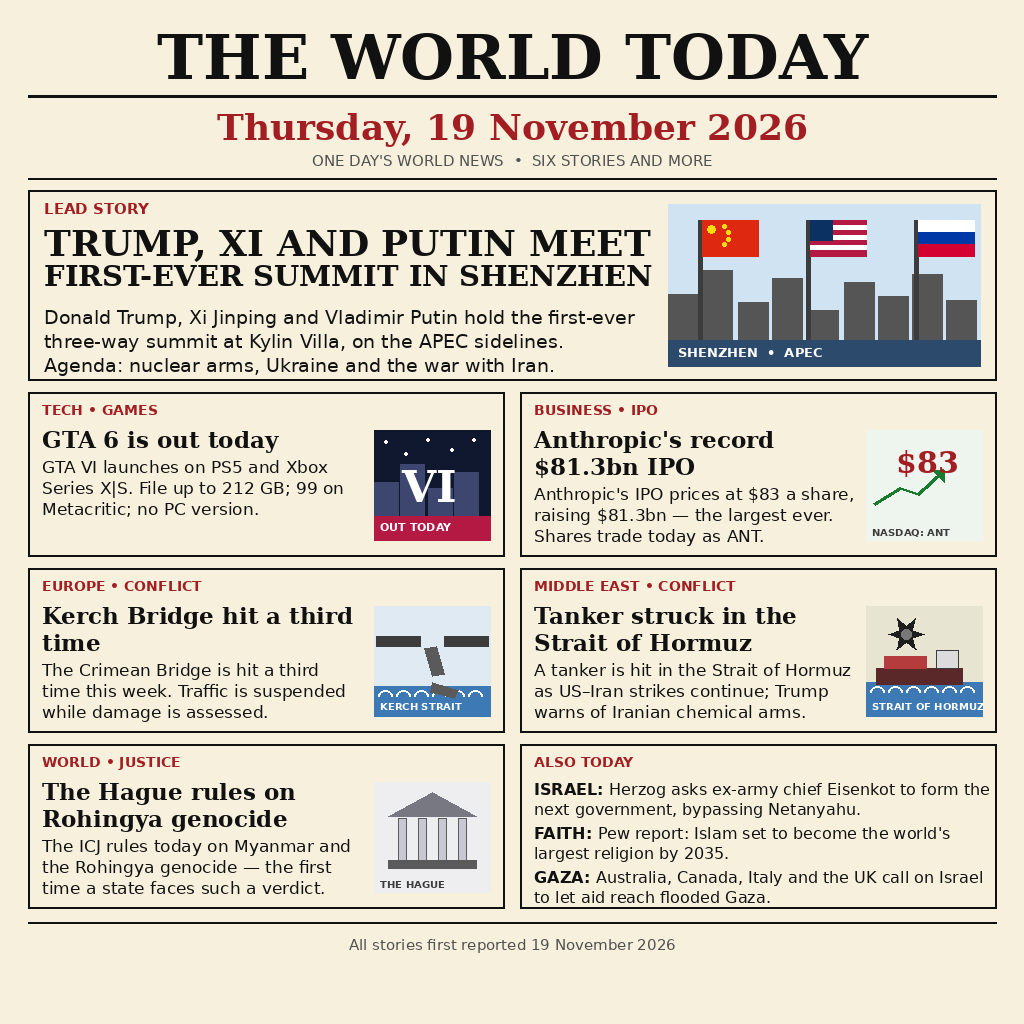
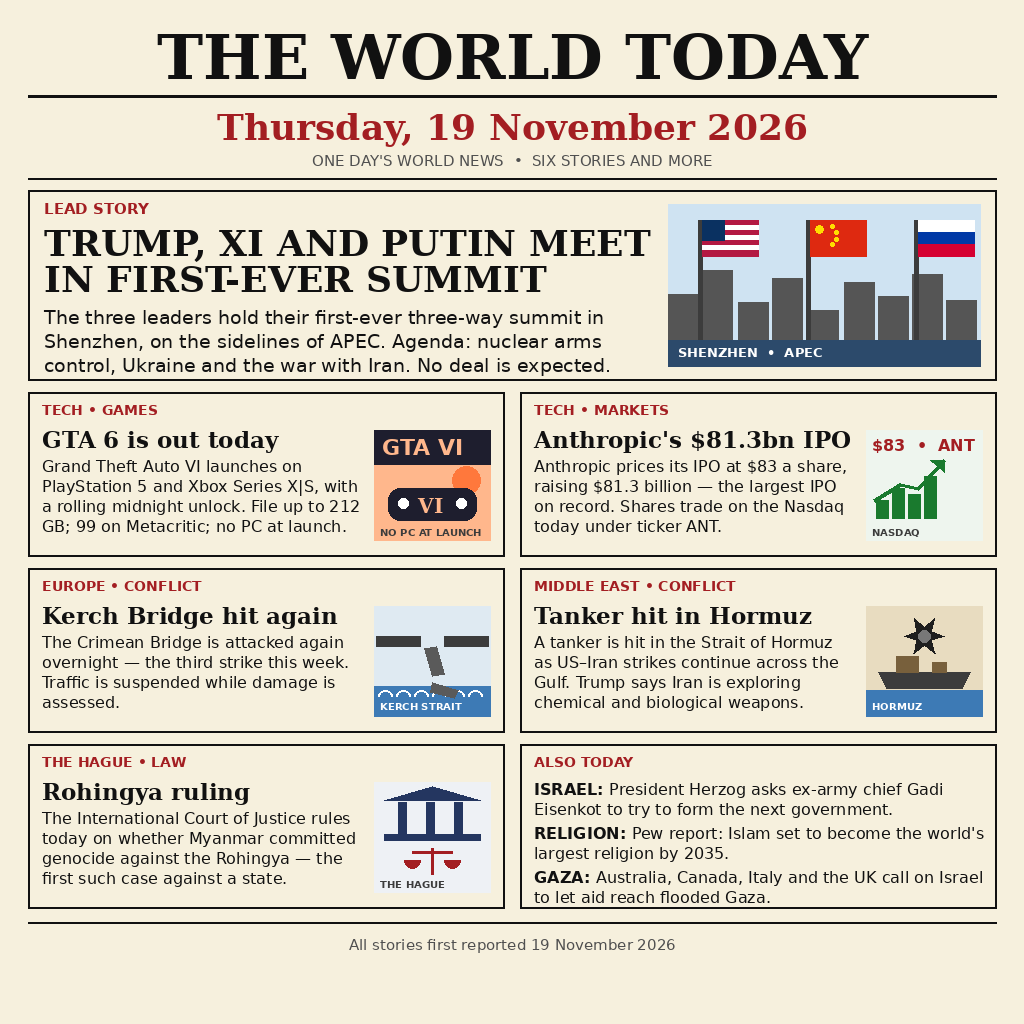
news-image-20261119: THE WORLD TODAY front page for Thursday 19 November 2026

diff --git a/render.py b/render.py
@@ -17,6 +17,7 @@ PAPER = (246, 240, 221)
 INK = (17, 17, 17)
 RED = (163, 30, 34)
 RULE = (17, 17, 17)
+GREY = (80, 80, 80)
 
 SERIF_B = "/usr/share/fonts/truetype/dejavu/DejaVuSerif-Bold.ttf"
 SERIF = "/usr/share/fonts/truetype/dejavu/DejaVuSerif.ttf"
@@ -52,6 +53,18 @@ def text_block(draw, x, y, text, fnt, max_w, leading, color=INK):
     return y
 
 
+def fit_font(path, text, start, max_w):
+    """Largest size at or below start whose text fits max_w."""
+    size = start
+    probe = ImageDraw.Draw(Image.new("RGB", (8, 8)))
+    while size > 12:
+        fnt = font(path, size)
+        if probe.textlength(text, font=fnt) <= max_w:
+            return fnt
+        size -= 1
+    return font(path, 12)
+
+
 def story_box(draw, x, y, w, h, kicker, headline, body, art):
     """One bordered story box with a small drawn illustration at right."""
     draw.rectangle([x, y, x + w, y + h], outline=RULE, width=2)
@@ -65,16 +78,8 @@ def story_box(draw, x, y, w, h, kicker, headline, body, art):
     ty = text_block(draw, tx, ty, headline, font(SERIF_B, 23),
                     text_w, 27)
     ty += 4
-    text_block(draw, tx, ty, body, font(SANS, 17), text_w, 21)
+    text_block(draw, tx, ty, body, font(SANS, 16), text_w, 20)
     art(draw, x + w - pad - art_w, y + 38, art_w, 110)
-
-
-def flag_china(draw, x, y, w, h):
-    draw.rectangle([x, y, x + w, y + h], fill=(222, 41, 16))
-    draw.ellipse([x + 5, y + 5, x + 13, y + 13], fill=(255, 222, 0))
-    for dx, dy in ((20, 4), (24, 10), (24, 17), (20, 22)):
-        draw.ellipse([x + dx, y + dy, x + dx + 4, y + dy + 4],
-                     fill=(255, 222, 0))
 
 
 def flag_usa(draw, x, y, w, h):
@@ -86,6 +91,14 @@ def flag_usa(draw, x, y, w, h):
                    fill=(10, 49, 97))
 
 
+def flag_china(draw, x, y, w, h):
+    draw.rectangle([x, y, x + w, y + h], fill=(222, 41, 16))
+    draw.ellipse([x + 5, y + 5, x + 13, y + 13], fill=(255, 222, 0))
+    for dx, dy in ((20, 4), (24, 10), (24, 17), (20, 22)):
+        draw.ellipse([x + dx, y + dy, x + dx + 4, y + dy + 4],
+                     fill=(255, 222, 0))
+
+
 def flag_russia(draw, x, y, w, h):
     for i, col in enumerate(((255, 255, 255), (0, 57, 166),
                              (213, 0, 50))):
@@ -94,17 +107,15 @@ def flag_russia(draw, x, y, w, h):
 
 
 def art_lead(draw, x, y, w, h):
-    """Shenzhen skyline with the flags of China, the US and Russia."""
+    """Shenzhen skyline with the flags of the US, China and Russia."""
     draw.rectangle([x, y, x + w, y + h], fill=(207, 227, 242))
-    # Skyline.
     base = y + h - 26
     skyline = [(0, 46), (34, 70), (70, 38), (104, 62), (140, 30),
                (176, 58), (210, 44), (244, 66), (278, 40)]
     for bx, bh in skyline:
         draw.rectangle([x + bx, base - bh, x + bx + 30, base],
                        fill=(85, 85, 85))
-    # Three flag poles.
-    for i, fn in enumerate((flag_china, flag_usa, flag_russia)):
+    for i, fn in enumerate((flag_usa, flag_china, flag_russia)):
         px = x + 30 + i * 108
         draw.rectangle([px, y + 16, px + 4, base], fill=(60, 60, 60))
         fn(draw, px + 4, y + 16, 56, 36)
@@ -113,61 +124,51 @@ def art_lead(draw, x, y, w, h):
               font=font(SANS_B, 13), fill=(255, 255, 255))
 
 
-def fit_font(path, text, start, max_w):
-    """Largest size at or below start whose text fits max_w."""
-    size = start
-    while size > 12:
-        fnt = font(path, size)
-        if ImageDraw.Draw(Image.new("RGB", (8, 8))).textlength(
-                text, font=fnt) <= max_w:
-            return fnt
-        size -= 1
-    return font(path, 12)
-
-
 def art_gta(draw, x, y, w, h):
-    """Night city skyline with a big VI for the GTA 6 launch."""
-    draw.rectangle([x, y, x + w, y + h], fill=(16, 24, 48))
-    # Stars.
-    for sx, sy in ((10, 10), (30, 22), (52, 8), (76, 18), (98, 8)):
-        draw.ellipse([x + sx, y + sy, x + sx + 3, y + sy + 3],
-                     fill=(255, 255, 255))
-    # Skyline silhouette.
-    base = y + h - 24
-    for bx, bh in ((0, 34), (26, 52), (54, 28), (80, 44)):
-        draw.rectangle([x + bx, base - bh, x + bx + 24, base],
-                       fill=(60, 70, 110))
-    # Big VI.
-    draw.text((x + 28, y + 30), "VI", font=font(SERIF_B, 44),
-              fill=(255, 255, 255))
-    draw.rectangle([x, y + h - 24, x + w, y + h], fill=(179, 25, 66))
-    draw.text((x + 6, y + h - 20), "OUT TODAY",
-              font=font(SANS_B, 11), fill=(255, 255, 255))
-
-
-def art_anthropic(draw, x, y, w, h):
-    """Rising chart and $83 for the Anthropic IPO."""
-    draw.rectangle([x, y, x + w, y + h], fill=(238, 245, 238))
-    # Rising chart arrow.
-    draw.line([x + 8, y + 74, x + 34, y + 58, x + 52, y + 64, x + 78,
-               y + 40], fill=(26, 122, 46), width=3)
-    draw.polygon([(x + 78, y + 40), (x + 66, y + 40), (x + 78, y + 52)],
-                 fill=(26, 122, 46))
-    draw.text((x + 30, y + 14), "$83", font=font(SERIF_B, 30),
-              fill=(163, 30, 34))
-    draw.text((x + 6, y + h - 14), "NASDAQ: ANT",
+    """A game controller under a big VI, sunset sky."""
+    draw.rectangle([x, y, x + w, y + h], fill=(255, 183, 140))
+    draw.rectangle([x, y, x + w, y + 34], fill=(30, 30, 46))
+    draw.text((x + 8, y + 4), "GTA VI", font=font(SANS_B, 22),
+              fill=(255, 183, 140))
+    # Sun.
+    draw.ellipse([x + 78, y + 36, x + 106, y + 64], fill=(255, 120, 60))
+    # Controller body.
+    draw.rounded_rectangle([x + 14, y + 58, x + 102, y + 90], radius=12,
+                           fill=(30, 30, 46))
+    draw.ellipse([x + 24, y + 68, x + 34, y + 78], fill=(255, 255, 255))
+    draw.ellipse([x + 82, y + 68, x + 92, y + 78], fill=(255, 255, 255))
+    draw.text((x + 44, y + 64), "VI", font=font(SERIF_B, 20),
+              fill=(255, 183, 140))
+    draw.text((x + 6, y + h - 14), "NO PC AT LAUNCH",
               font=font(SANS_B, 10), fill=(60, 60, 60))
+
+
+def art_ipo(draw, x, y, w, h):
+    """A rising chart over a share-price ticker tape."""
+    draw.rectangle([x, y, x + w, y + h], fill=(238, 245, 238))
+    # Rising arrow.
+    draw.line([x + 8, y + 70, x + 34, y + 54, x + 52, y + 58, x + 78, y + 30],
+              fill=(26, 122, 46), width=4)
+    draw.polygon([(x + 78, y + 30), (x + 64, y + 30), (x + 78, y + 42)],
+                 fill=(26, 122, 46))
+    # Bars.
+    for i, bh in enumerate((18, 30, 24, 42)):
+        draw.rectangle([x + 10 + i * 16, y + 88 - bh,
+                        x + 22 + i * 16, y + 88], fill=(26, 122, 46))
+    draw.text((x + 6, y + 6), "$83  •  ANT", font=font(SANS_B, 16),
+              fill=(163, 30, 34))
+    draw.text((x + 6, y + h - 14), "NASDAQ", font=font(SANS_B, 10),
+              fill=(60, 60, 60))
 
 
 def art_kerch(draw, x, y, w, h):
     """Broken bridge over the Kerch Strait."""
     draw.rectangle([x, y, x + w, y + h], fill=(223, 234, 242))
-    # Water.
     draw.rectangle([x, y + h - 30, x + w, y + h], fill=(61, 122, 181))
     for wx in range(x + 4, x + w - 8, 18):
         draw.arc([wx, y + h - 26, wx + 14, y + h - 14], 180, 360,
                  fill=(255, 255, 255), width=2)
-    # Deck in two pieces with a gap in the middle, over the water.
+    # Deck in two pieces with a gap in the middle.
     draw.rectangle([x + 2, y + 30, x + 46, y + 40], fill=(60, 60, 60))
     draw.rectangle([x + 70, y + 30, x + 114, y + 40], fill=(60, 60, 60))
     # Fallen span, tilted down through the gap into the water.
@@ -182,42 +183,46 @@ def art_kerch(draw, x, y, w, h):
 
 
 def art_gulf(draw, x, y, w, h):
-    """Tanker on the Strait of Hormuz with a blast burst."""
-    draw.rectangle([x, y, x + w, y + h], fill=(232, 228, 210))
-    # Sea.
-    draw.rectangle([x, y + h - 34, x + w, y + h], fill=(61, 122, 181))
-    for wx in range(x + 4, x + w - 8, 18):
-        draw.arc([wx, y + h - 30, wx + 14, y + h - 18], 180, 360,
-                 fill=(255, 255, 255), width=2)
-    # Tanker hull and bridge.
-    draw.rectangle([x + 10, y + 62, x + 96, y + 78], fill=(90, 40, 40))
-    draw.rectangle([x + 70, y + 44, x + 92, y + 62], fill=(220, 220, 220),
-                   outline=(60, 60, 60))
-    draw.rectangle([x + 18, y + 50, x + 60, y + 62], fill=(180, 60, 60))
-    # Blast burst above the tanker.
-    cx, cy = x + 40, y + 28
+    """A tanker on the Strait of Hormuz with a blast burst."""
+    draw.rectangle([x, y, x + w, y + h], fill=(232, 220, 192))
+    draw.rectangle([x, y + h - 26, x + w, y + h], fill=(61, 122, 181))
+    # Tanker hull and deck.
+    draw.polygon([(x + 12, y + 66), (x + 104, y + 66), (x + 96, y + 82),
+                  (x + 20, y + 82)], fill=(60, 60, 60))
+    draw.rectangle([x + 30, y + 50, x + 52, y + 66], fill=(120, 96, 60))
+    draw.rectangle([x + 66, y + 56, x + 80, y + 66], fill=(120, 96, 60))
+    # Blast burst above the deck.
+    cx, cy = x + 58, y + 30
     pts = []
     for i in range(12):
-        r = 18 if i % 2 == 0 else 8
+        r = 20 if i % 2 == 0 else 9
         ang = math.pi * i / 6
         pts.append((cx + r * math.cos(ang), cy + r * math.sin(ang)))
     draw.polygon(pts, fill=(30, 30, 30))
-    draw.ellipse([cx - 5, cy - 5, cx + 5, cy + 5], fill=(120, 120, 120))
-    draw.text((x + 6, y + h - 16), "STRAIT OF HORMUZ",
+    draw.ellipse([cx - 6, cy - 6, cx + 6, cy + 6], fill=(120, 120, 120))
+    draw.text((x + 6, y + h - 16), "HORMUZ",
               font=font(SANS_B, 10), fill=(255, 255, 255))
 
 
 def art_icj(draw, x, y, w, h):
-    """Courthouse in The Hague with columns and scales."""
-    draw.rectangle([x, y, x + w, y + h], fill=(238, 238, 240))
-    # Pediment.
-    draw.polygon([(x + 14, y + 34), (x + 58, y + 10), (x + 102, y + 34)],
-                 fill=(120, 120, 130))
-    # Columns.
-    for cx in (24, 44, 64, 84):
-        draw.rectangle([x + cx, y + 36, x + cx + 8, y + 78],
-                       fill=(200, 200, 210), outline=(90, 90, 90))
-    draw.rectangle([x + 14, y + 78, x + 102, y + 86], fill=(90, 90, 90))
+    """Scales of justice in front of a courthouse."""
+    draw.rectangle([x, y, x + w, y + h], fill=(238, 241, 245))
+    # Courthouse pediment and columns.
+    draw.polygon([(x + 10, y + 18), (x + 58, y + 4), (x + 106, y + 18)],
+                 fill=(36, 54, 96))
+    for cx in (24, 52, 80):
+        draw.rectangle([x + cx, y + 20, x + cx + 8, y + 52],
+                       fill=(36, 54, 96))
+    draw.rectangle([x + 10, y + 52, x + 106, y + 58], fill=(36, 54, 96))
+    # Scales.
+    draw.line([x + 58, y + 66, x + 58, y + 92], fill=(163, 30, 34),
+              width=3)
+    draw.line([x + 38, y + 70, x + 78, y + 70], fill=(163, 30, 34),
+              width=3)
+    draw.pieslice([x + 30, y + 70, x + 46, y + 86], 0, 180,
+                  fill=(163, 30, 34))
+    draw.pieslice([x + 70, y + 70, x + 86, y + 86], 0, 180,
+                  fill=(163, 30, 34))
     draw.text((x + 6, y + h - 14), "THE HAGUE",
               font=font(SANS_B, 10), fill=(60, 60, 60))
 
@@ -233,7 +238,7 @@ def main():
     d.text((W // 2, 106), "Thursday, 19 November 2026",
            font=font(SERIF_B, 36), fill=RED, anchor="ma")
     d.text((W // 2, 152), "ONE DAY'S WORLD NEWS  •  SIX STORIES AND MORE",
-           font=font(SANS, 15), fill=(80, 80, 80), anchor="ma")
+           font=font(SANS, 15), fill=GREY, anchor="ma")
     d.line([28, 178, W - 28, 178], fill=RULE, width=2)
 
     # Lead story.
@@ -244,14 +249,14 @@ def main():
     d.text((lx + 16, ly + 32), "TRUMP, XI AND PUTIN MEET",
            font=fit_font(SERIF_B, "TRUMP, XI AND PUTIN MEET", 36, 620),
            fill=INK)
-    d.text((lx + 16, ly + 68), "FIRST-EVER SUMMIT IN SHENZHEN",
-           font=fit_font(SERIF_B, "FIRST-EVER SUMMIT IN SHENZHEN", 36,
-                         620), fill=INK)
+    d.text((lx + 16, ly + 68), "IN FIRST-EVER SUMMIT",
+           font=fit_font(SERIF_B, "IN FIRST-EVER SUMMIT", 36, 620),
+           fill=INK)
     text_block(d, lx + 16, ly + 116,
-               "Donald Trump, Xi Jinping and Vladimir Putin hold the "
-               "first-ever three-way summit at Kylin Villa, on the "
-               "APEC sidelines. Agenda: nuclear arms, Ukraine and the "
-               "war with Iran.",
+               "The three leaders hold their first-ever three-way "
+               "summit in Shenzhen, on the sidelines of APEC. Agenda: "
+               "nuclear arms control, Ukraine and the war with Iran. "
+               "No deal is expected.",
                font(SANS, 19), 596, 24)
     art_lead(d, lx + 640, ly + 14, 312, 162)
 
@@ -261,20 +266,24 @@ def main():
     gw, gh = 476, 164
     stories = [
         ("TECH • GAMES", "GTA 6 is out today",
-         "GTA VI launches on PS5 and Xbox Series X|S. File up to "
-         "212 GB; 99 on Metacritic; no PC version.",
+         "Grand Theft Auto VI launches on PlayStation 5 and Xbox "
+         "Series X|S, with a rolling midnight unlock. File up to "
+         "212 GB; 99 on Metacritic; no PC at launch.",
          art_gta),
-        ("BUSINESS • IPO", "Anthropic's record $81.3bn IPO",
-         "Anthropic's IPO prices at $83 a share, raising $81.3bn — "
-         "the largest ever. Shares trade today as ANT.",
-         art_anthropic),
-        ("EUROPE • CONFLICT", "Kerch Bridge hit a third time",
-         "The Crimean Bridge is hit a third time this week. "
-         "Traffic is suspended while damage is assessed.",
+        ("TECH • MARKETS", "Anthropic's $81.3bn IPO",
+         "Anthropic prices its IPO at $83 a share, raising $81.3 "
+         "billion — the largest IPO on record. Shares trade on the "
+         "Nasdaq today under ticker ANT.",
+         art_ipo),
+        ("EUROPE • CONFLICT", "Kerch Bridge hit again",
+         "The Crimean Bridge is attacked again overnight — the third "
+         "strike this week. Traffic is suspended while damage is "
+         "assessed.",
          art_kerch),
-        ("MIDDLE EAST • CONFLICT", "Tanker struck in the Strait of Hormuz",
-         "A tanker is hit in the Strait of Hormuz as US–Iran "
-         "strikes continue; Trump warns of Iranian chemical arms.",
+        ("MIDDLE EAST • CONFLICT", "Tanker hit in Hormuz",
+         "A tanker is hit in the Strait of Hormuz as US–Iran strikes "
+         "continue across the Gulf. Trump says Iran is exploring "
+         "chemical and biological weapons.",
          art_gulf),
     ]
     for i, (kicker, head, body, art) in enumerate(stories):
@@ -282,10 +291,11 @@ def main():
                   art)
 
     # Bottom row: ICJ + also today.
-    story_box(d, 28, 744, 476, 164, "WORLD • JUSTICE",
-              "The Hague rules on Rohingya genocide",
-              "The ICJ rules today on Myanmar and the Rohingya "
-              "genocide — the first time a state faces such a verdict.",
+    story_box(d, 28, 744, 476, 164, "THE HAGUE • LAW",
+              "Rohingya ruling",
+              "The International Court of Justice rules today on "
+              "whether Myanmar committed genocide against the "
+              "Rohingya — the first such case against a state.",
               art_icj)
 
     ax, ay, aw, ah = 520, 744, 476, 164
@@ -293,9 +303,9 @@ def main():
     d.text((ax + 14, ay + 10), "ALSO TODAY", font=font(SANS_B, 14),
            fill=RED)
     items = [
-        ("ISRAEL: ", "Herzog asks ex-army chief Eisenkot to form the "
-         "next government, bypassing Netanyahu."),
-        ("FAITH: ", "Pew report: Islam set to become the world's "
+        ("ISRAEL: ", "President Herzog asks ex-army chief Gadi "
+         "Eisenkot to try to form the next government."),
+        ("RELIGION: ", "Pew report: Islam set to become the world's "
          "largest religion by 2035."),
         ("GAZA: ", "Australia, Canada, Italy and the UK call on "
          "Israel to let aid reach flooded Gaza."),
@@ -320,7 +330,7 @@ def main():
     # Footer.
     d.line([28, 922, W - 28, 922], fill=RULE, width=2)
     d.text((W // 2, 936), "All stories first reported 19 November 2026",
-           font=font(SANS, 15), fill=(80, 80, 80), anchor="ma")
+           font=font(SANS, 15), fill=GREY, anchor="ma")
 
     img.save("entry.png")
 

diff --git a/README.md b/README.md
@@ -53,7 +53,7 @@ mkdir -p out && MAKEFUN_OUTPUT_DIR=out python3 main.py
 
 This copies `entry.png` to `$MAKEFUN_OUTPUT_DIR/entry.png`. Standard library
 only, no network, deterministic — every run writes the same bytes
-(verified: two runs produce identical sha256, 149,736 bytes).
+(verified: two runs produce identical sha256, 145,633 bytes).
 
 To re-render the page from scratch: `python3 render.py` (PIL required).
 
